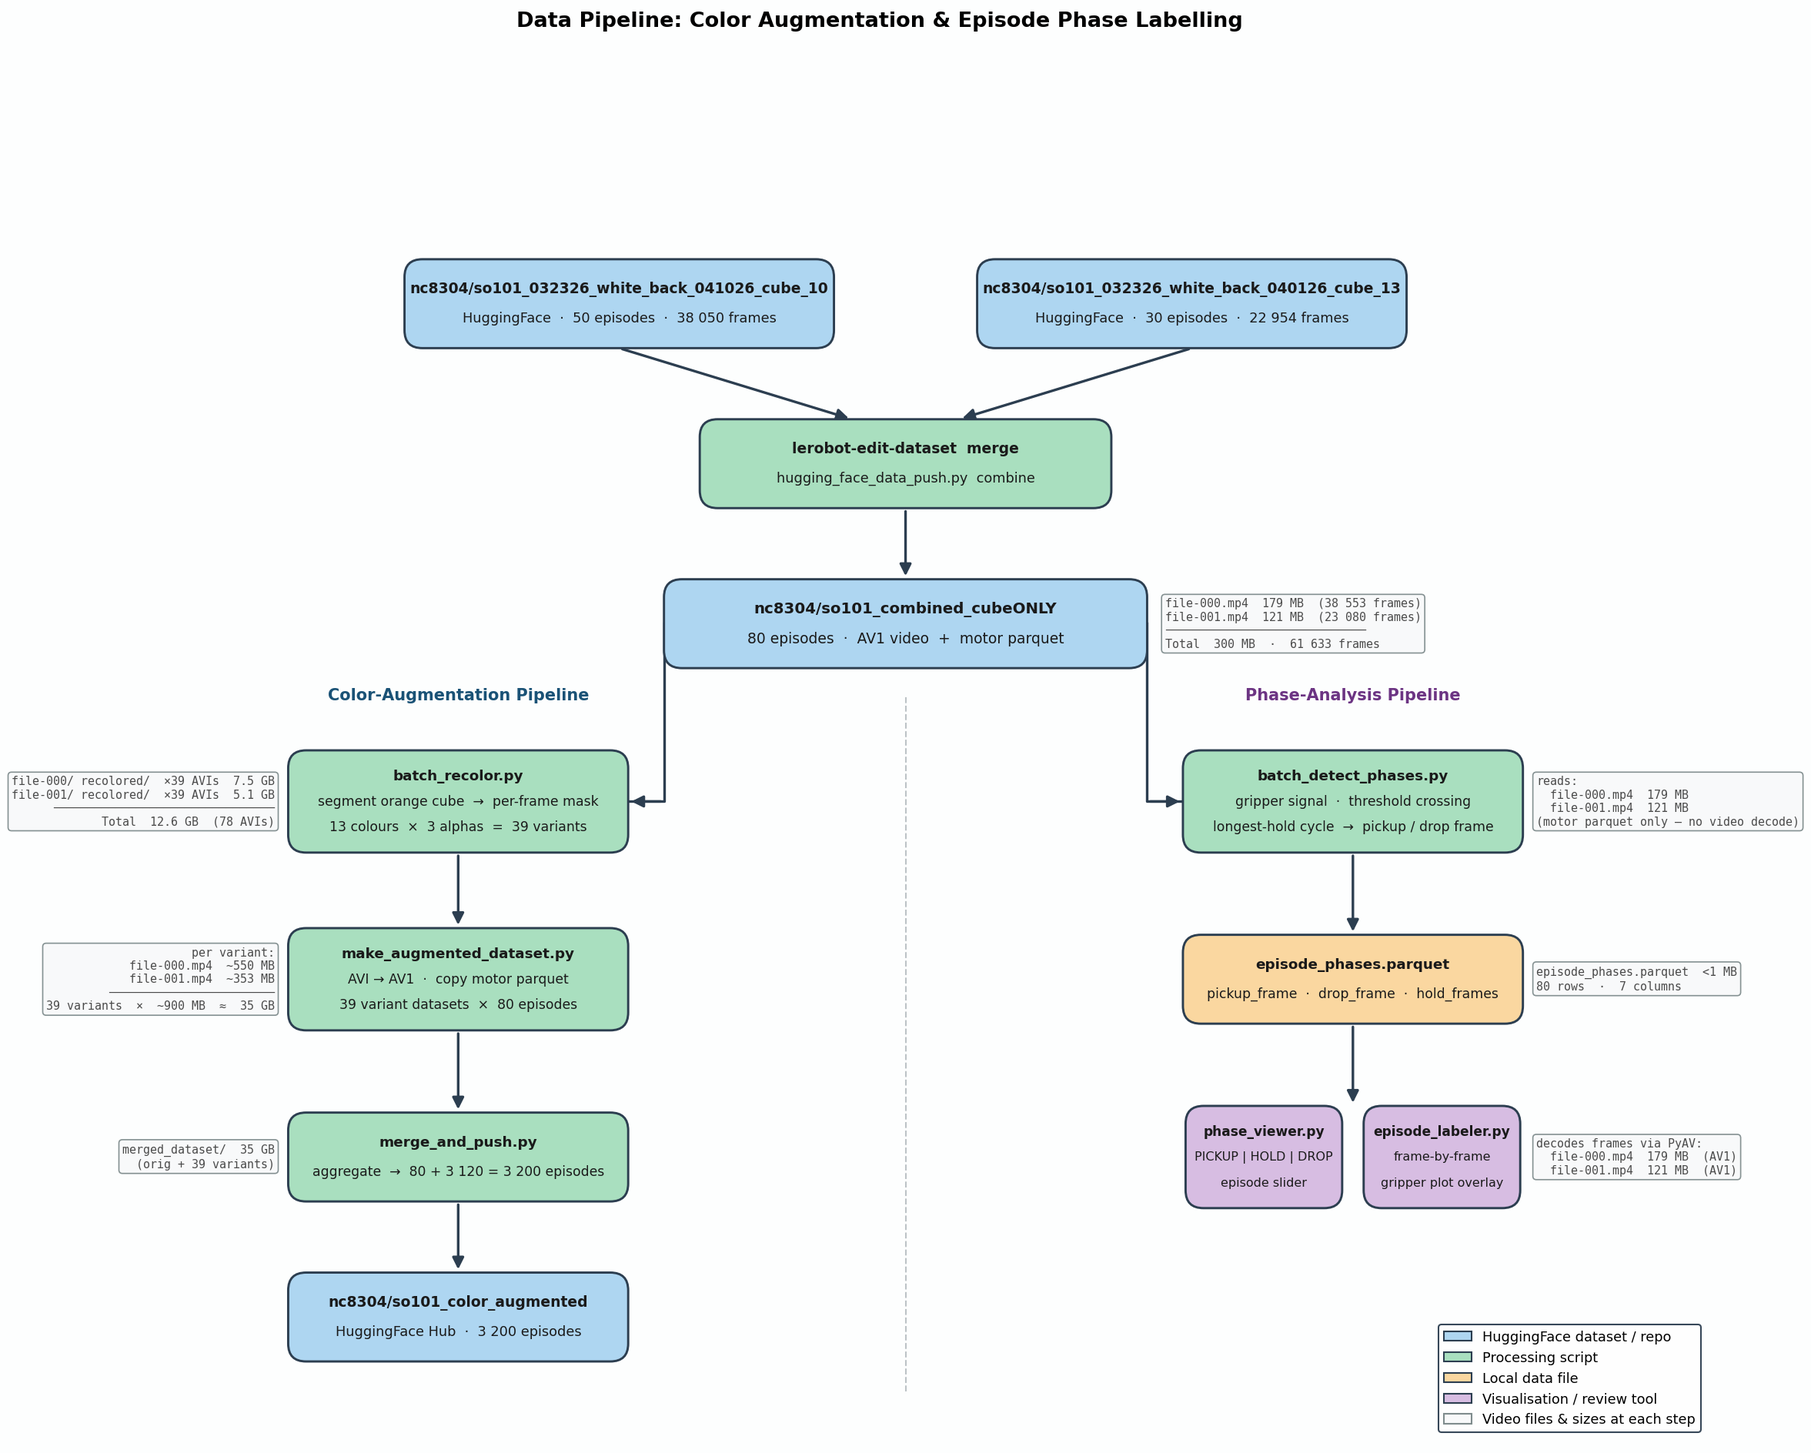
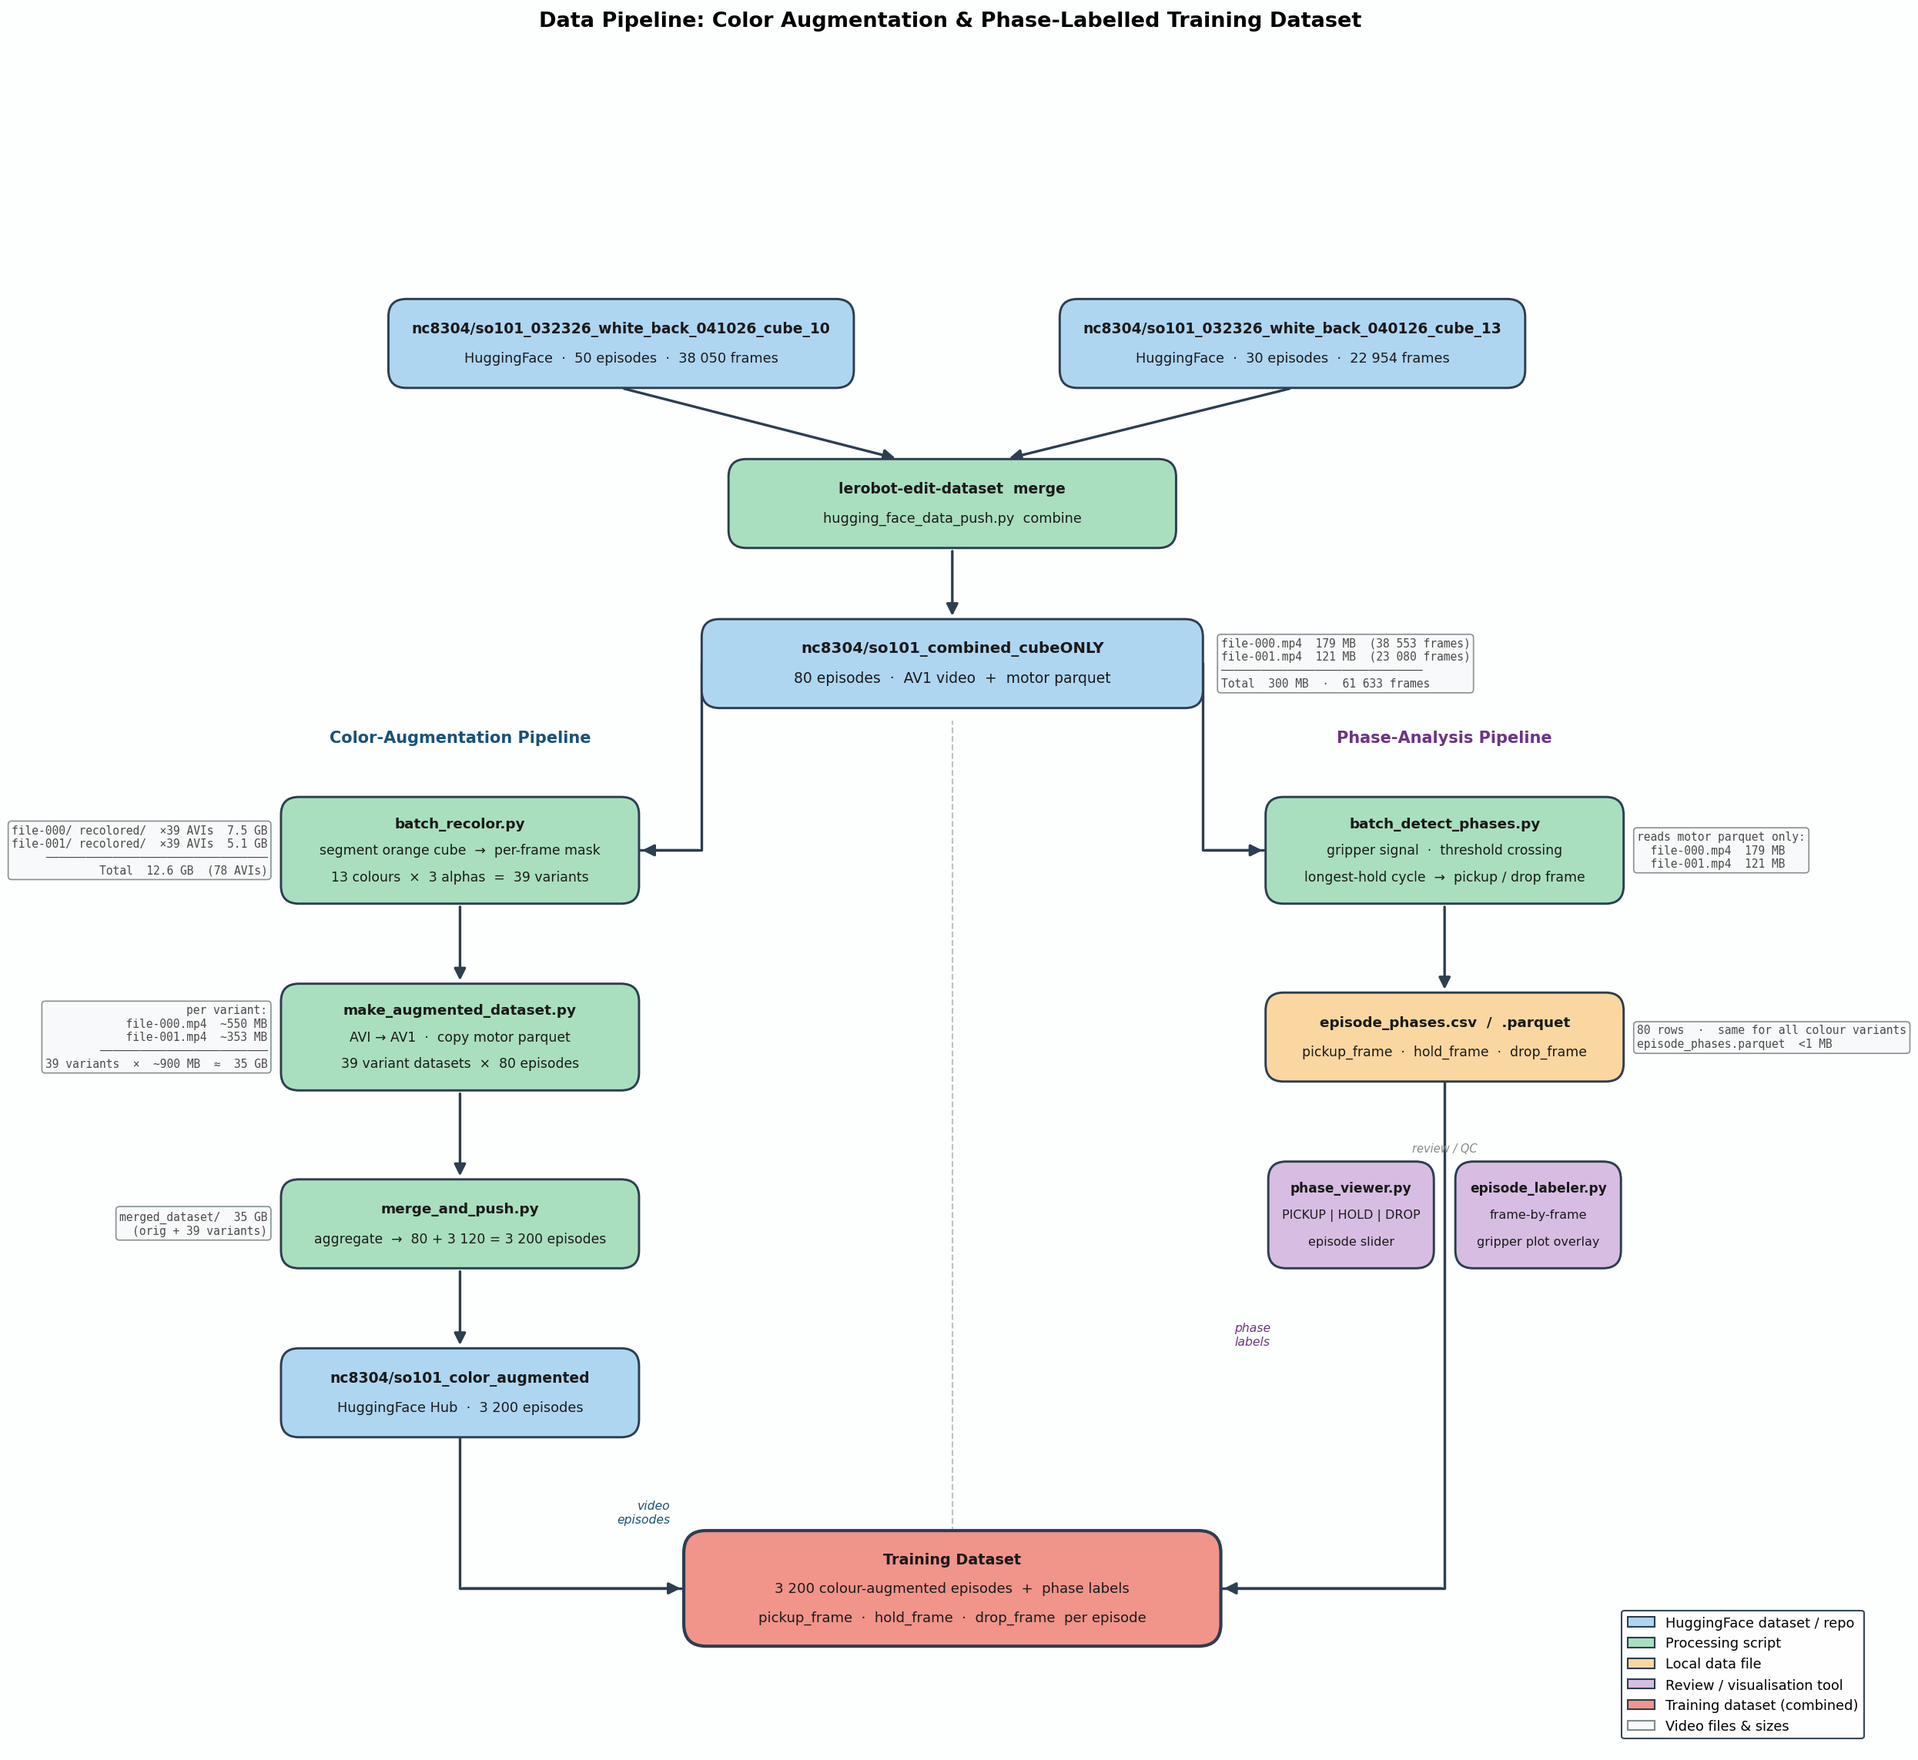
Update workflow figure to show training dataset convergence
- Both pipelines now converge into a Training Dataset node
- Color-augmented episodes + episode_phases labels feed into training
- Review tools shown as side branch off episode_phases

diff --git a/make_workflow_figure.py b/make_workflow_figure.py
@@ -1,6 +1,6 @@
 """
 Generate a workflow diagram for the data augmentation + phase analysis pipeline.
-Annotates each step with the video files and sizes produced.
+Shows how color-augmented dataset + episode_phases CSV converge for training.
 
 Output: outputs/workflow_figure.pdf  (and .png)
 """
@@ -22,12 +22,13 @@ C_HF     = "#AED6F1"   # HuggingFace datasets
 C_PROC   = "#A9DFBF"   # processing scripts
 C_FILE   = "#FAD7A0"   # local data / parquet
 C_VIZ    = "#D7BDE2"   # visualisation tools
+C_TRAIN  = "#F1948A"   # training node
 C_EDGE   = "#2C3E50"
-C_TAG    = "#F8F9FA"   # file-size tag background
-C_TAG_E  = "#7F8C8D"   # file-size tag border
+C_TAG    = "#F8F9FA"
+C_TAG_E  = "#7F8C8D"
 C_BG     = "#FDFEFE"
 
-FIG_W, FIG_H = 18, 14
+FIG_W, FIG_H = 20, 17
 
 
 # ── helpers ────────────────────────────────────────────────────────────────────
@@ -51,52 +52,50 @@ def box(ax, cx, cy, w, h, lines, fc,
                 color="#1A1A1A", zorder=4)
 
 
-def arr(ax, x0, y0, x1, y1, lw=1.6):
+def arr(ax, x0, y0, x1, y1, lw=1.6, color=C_EDGE):
     ax.annotate("", xy=(x1, y1), xytext=(x0, y0),
-                arrowprops=dict(arrowstyle="-|>", color=C_EDGE,
+                arrowprops=dict(arrowstyle="-|>", color=color,
                                 lw=lw, mutation_scale=15,
                                 connectionstyle="arc3,rad=0.0"),
                 zorder=2)
 
 
-def elbow(ax, x0, y0, x1, y1, lw=1.6):
-    """Vertical then horizontal elbow arrow."""
-    ax.plot([x0, x0, x1], [y0, y1, y1], color=C_EDGE, lw=lw, zorder=2)
+def elbow(ax, x0, y0, x1, y1, lw=1.6, color=C_EDGE):
+    """Go vertically from (x0,y0) to y1, then horizontally to (x1,y1)."""
+    ax.plot([x0, x0, x1], [y0, y1, y1], color=color, lw=lw, zorder=2)
     ax.annotate("", xy=(x1, y1), xytext=(x0, y1),
-                arrowprops=dict(arrowstyle="-|>", color=C_EDGE,
+                arrowprops=dict(arrowstyle="-|>", color=color,
                                 lw=lw, mutation_scale=15),
                 zorder=2)
 
 
 def file_tag(ax, x, y, lines, align="left"):
-    """Small file-size annotation tag."""
     ha = "left" if align == "left" else "right"
     txt = "\n".join(lines)
-    ax.text(x, y, txt,
-            ha=ha, va="center",
-            fontsize=7.2, color="#4A4A4A",
-            fontfamily="monospace",
+    ax.text(x, y, txt, ha=ha, va="center",
+            fontsize=7.0, color="#4A4A4A", fontfamily="monospace",
             bbox=dict(boxstyle="round,pad=0.3",
                       fc=C_TAG, ec=C_TAG_E, lw=0.8, alpha=0.95),
             zorder=5)
 
 
 # ── layout ─────────────────────────────────────────────────────────────────────
-Y1  = 12.8   # source datasets
-Y2  = 11.0   # combine step
-Y3  =  9.2   # combined dataset
-Y4  =  7.2   # branch step 1
-Y5  =  5.2   # branch step 2
-Y6  =  3.2   # branch step 3
-Y7  =  1.4   # final HF output (aug)
+Y1  = 15.8   # source datasets
+Y2  = 14.0   # combine step
+Y3  = 12.2   # combined dataset
+Y4  = 10.1   # branch step 1
+Y5  =  8.0   # branch step 2
+Y6  =  5.9   # aug step 3 (merge_and_push)
+Y7  =  4.0   # aug final (HF repo)
+Y8  =  1.8   # TRAINING (centred)
 
-X_L  =  4.0   # augmentation column
-X_R  = 14.0   # phase-analysis column
-X_C  =  9.0   # centre
+X_L  =  4.2   # augmentation column
+X_R  = 15.2   # phase-analysis column
+X_C  =  9.7   # centre
 
 BH   = 1.0
-BW   = 3.8
-SBH  = 1.15
+BW   = 4.0
+SBH  = 1.2
 
 
 # ── figure ────────────────────────────────────────────────────────────────────
@@ -109,14 +108,14 @@ fig.patch.set_facecolor(C_BG)
 # ═══════════════════════════════════════════════════════════════════════════════
 # ROW 1 — two source HF datasets
 # ═══════════════════════════════════════════════════════════════════════════════
-SX1, SX2 = 5.8, 12.2
+SX1, SX2 = 6.0, 13.5
 
-box(ax, SX1, Y1, 4.8, BH,
+box(ax, SX1, Y1, 5.2, BH,
     ["nc8304/so101_032326_white_back_041026_cube_10",
      "HuggingFace  ·  50 episodes  ·  38 050 frames"],
     C_HF, fontsize=9)
 
-box(ax, SX2, Y1, 4.8, BH,
+box(ax, SX2, Y1, 5.2, BH,
     ["nc8304/so101_032326_white_back_040126_cube_13",
      "HuggingFace  ·  30 episodes  ·  22 954 frames"],
     C_HF, fontsize=9)
@@ -127,43 +126,40 @@ box(ax, SX2, Y1, 4.8, BH,
 arr(ax, SX1, Y1 - BH/2,  X_C - 0.6, Y2 + BH/2)
 arr(ax, SX2, Y1 - BH/2,  X_C + 0.6, Y2 + BH/2)
 
-box(ax, X_C, Y2, 4.6, BH,
+box(ax, X_C, Y2, 5.0, BH,
     ["lerobot-edit-dataset  merge",
      "hugging_face_data_push.py  combine"],
     C_PROC, fontsize=9)
 
 # ═══════════════════════════════════════════════════════════════════════════════
-# ROW 3 — combined dataset  +  file-size tag
+# ROW 3 — combined dataset
 # ═══════════════════════════════════════════════════════════════════════════════
 arr(ax, X_C, Y2 - BH/2,  X_C, Y3 + BH/2)
 
-box(ax, X_C, Y3, 5.4, BH,
+box(ax, X_C, Y3, 5.6, BH,
     ["nc8304/so101_combined_cubeONLY",
      "80 episodes  ·  AV1 video  +  motor parquet"],
     C_HF, fontsize=9.5)
 
-# file tag — right of combined box
-file_tag(ax, X_C + 5.4/2 + 0.2, Y3,
+file_tag(ax, X_C + 5.6/2 + 0.2, Y3,
          ["file-000.mp4  179 MB  (38 553 frames)",
           "file-001.mp4  121 MB  (23 080 frames)",
-          "─────────────────────────────",
+          "──────────────────────────────",
           "Total  300 MB  ·  61 633 frames"],
          align="left")
 
-# ─── branch labels + divider ──────────────────────────────────────────────────
-ax.text(X_L, Y3 - BH/2 - 0.22, "Color-Augmentation Pipeline",
+# branch labels + divider
+ax.text(X_L, Y3 - BH/2 - 0.25, "Color-Augmentation Pipeline",
         ha="center", va="top", fontsize=10, fontweight="bold", color="#1A5276")
-ax.text(X_R, Y3 - BH/2 - 0.22, "Phase-Analysis Pipeline",
+ax.text(X_R, Y3 - BH/2 - 0.25, "Phase-Analysis Pipeline",
         ha="center", va="top", fontsize=10, fontweight="bold", color="#6C3483")
-ax.axvline(X_C, ymin=0.04, ymax=0.60,
+ax.axvline(X_C, ymin=0.07, ymax=0.68,
            color="#BDC3C7", lw=1.0, linestyle="--", zorder=1)
 
 # ═══════════════════════════════════════════════════════════════════════════════
 # AUGMENTATION BRANCH  (left)
 # ═══════════════════════════════════════════════════════════════════════════════
-
-# elbow: combined left edge → batch_recolor
-elbow(ax, X_C - 5.4/2, Y3,  X_L + BW/2, Y4)
+elbow(ax, X_C - 5.6/2, Y3,  X_L + BW/2, Y4)
 
 box(ax, X_L, Y4, BW, SBH,
     ["batch_recolor.py",
@@ -171,11 +167,10 @@ box(ax, X_L, Y4, BW, SBH,
      "13 colours  ×  3 alphas  =  39 variants"],
     C_PROC, fontsize=8.8)
 
-# file tag — left of aug column
 file_tag(ax, X_L - BW/2 - 0.15, Y4,
          ["file-000/ recolored/  ×39 AVIs  7.5 GB",
           "file-001/ recolored/  ×39 AVIs  5.1 GB",
-          "────────────────────────────────",
+          "─────────────────────────────────",
           "Total  12.6 GB  (78 AVIs)"],
          align="right")
 
@@ -191,7 +186,7 @@ file_tag(ax, X_L - BW/2 - 0.15, Y5,
          ["per variant:",
           "  file-000.mp4  ~550 MB",
           "  file-001.mp4  ~353 MB",
-          "────────────────────────",
+          "─────────────────────────",
           "39 variants  ×  ~900 MB  ≈  35 GB"],
          align="right")
 
@@ -217,8 +212,7 @@ box(ax, X_L, Y7, BW, BH,
 # ═══════════════════════════════════════════════════════════════════════════════
 # PHASE-ANALYSIS BRANCH  (right)
 # ═══════════════════════════════════════════════════════════════════════════════
-
-elbow(ax, X_C + 5.4/2, Y3,  X_R - BW/2, Y4)
+elbow(ax, X_C + 5.6/2, Y3,  X_R - BW/2, Y4)
 
 box(ax, X_R, Y4, BW, SBH,
     ["batch_detect_phases.py",
@@ -226,69 +220,95 @@ box(ax, X_R, Y4, BW, SBH,
      "longest-hold cycle  →  pickup / drop frame"],
     C_PROC, fontsize=8.8)
 
-# reads the same combined-dataset videos
 file_tag(ax, X_R + BW/2 + 0.15, Y4,
-         ["reads:",
+         ["reads motor parquet only:",
           "  file-000.mp4  179 MB",
-          "  file-001.mp4  121 MB",
-          "(motor parquet only — no video decode)"],
+          "  file-001.mp4  121 MB"],
          align="left")
 
 arr(ax, X_R, Y4 - SBH/2,  X_R, Y5 + BH/2)
 
 box(ax, X_R, Y5, BW, BH,
-    ["episode_phases.parquet",
-     "pickup_frame  ·  drop_frame  ·  hold_frames"],
+    ["episode_phases.csv  /  .parquet",
+     "pickup_frame  ·  hold_frame  ·  drop_frame"],
     C_FILE, fontsize=8.8)
 
 file_tag(ax, X_R + BW/2 + 0.15, Y5,
-         ["episode_phases.parquet  <1 MB",
-          "80 rows  ·  7 columns"],
+         ["80 rows  ·  same for all colour variants",
+          "episode_phases.parquet  <1 MB"],
          align="left")
 
-arr(ax, X_R, Y5 - BH/2,  X_R, Y6 + SBH/2)
+# ── viewers: side branch off episode_phases ───────────────────────────────────
+VW = 1.85
+VY = Y5 - 2.0   # place viewers below the parquet box
+# connector line from parquet down to viewers row
+ax.plot([X_R, X_R], [Y5 - BH/2, VY + SBH/2], color=C_EDGE, lw=1.2,
+        linestyle=":", zorder=2)
+ax.text(X_R, VY + SBH/2 + 0.08, "review / QC", ha="center", va="bottom",
+        fontsize=7, color="#888888", style="italic")
 
-# two viewer boxes side by side
-VW = 1.75
-box(ax, X_R - VW/2 - 0.12, Y6, VW, SBH,
+box(ax, X_R - VW/2 - 0.12, VY, VW, SBH,
     ["phase_viewer.py",
      "PICKUP | HOLD | DROP",
      "episode slider"],
     C_VIZ, fontsize=8.2)
 
-box(ax, X_R + VW/2 + 0.12, Y6, VW, SBH,
+box(ax, X_R + VW/2 + 0.12, VY, VW, SBH,
     ["episode_labeler.py",
      "frame-by-frame",
      "gripper plot overlay"],
     C_VIZ, fontsize=8.2)
 
-file_tag(ax, X_R + BW/2 + 0.15, Y6,
-         ["decodes frames via PyAV:",
-          "  file-000.mp4  179 MB  (AV1)",
-          "  file-001.mp4  121 MB  (AV1)"],
-         align="left")
+# ═══════════════════════════════════════════════════════════════════════════════
+# TRAINING NODE  (centred at bottom)
+# ═══════════════════════════════════════════════════════════════════════════════
+TW, TH = 6.0, 1.3
+
+box(ax, X_C, Y8, TW, TH,
+    ["Training Dataset",
+     "3 200 colour-augmented episodes  +  phase labels",
+     "pickup_frame  ·  hold_frame  ·  drop_frame  per episode"],
+    C_TRAIN, fontsize=9.2, radius=0.25, lw=2.0)
+
+# arrow: so101_color_augmented → training
+elbow(ax, X_L, Y7 - BH/2,  X_C - TW/2, Y8)
+
+# arrow: episode_phases → training
+elbow(ax, X_R, Y5 - BH/2,  X_C + TW/2, Y8)
+
+# label on the converging arrows
+ax.text(X_C - TW/2 - 0.15, (Y7 - BH/2 + Y8) / 2,
+        "video\nepisodes", ha="right", va="center",
+        fontsize=7.5, color="#1A5276", style="italic")
+ax.text(X_C + TW/2 + 0.15, (Y5 - BH/2 + Y8) / 2,
+        "phase\nlabels", ha="left", va="center",
+        fontsize=7.5, color="#6C3483", style="italic")
 
 # ═══════════════════════════════════════════════════════════════════════════════
 # LEGEND
 # ═══════════════════════════════════════════════════════════════════════════════
 legend_handles = [
-    mpatches.Patch(facecolor=C_HF,   edgecolor=C_EDGE, label="HuggingFace dataset / repo"),
-    mpatches.Patch(facecolor=C_PROC, edgecolor=C_EDGE, label="Processing script"),
-    mpatches.Patch(facecolor=C_FILE, edgecolor=C_EDGE, label="Local data file"),
-    mpatches.Patch(facecolor=C_VIZ,  edgecolor=C_EDGE, label="Visualisation / review tool"),
-    mpatches.Patch(facecolor=C_TAG,  edgecolor=C_TAG_E, label="Video files & sizes at each step"),
+    mpatches.Patch(facecolor=C_HF,    edgecolor=C_EDGE, label="HuggingFace dataset / repo"),
+    mpatches.Patch(facecolor=C_PROC,  edgecolor=C_EDGE, label="Processing script"),
+    mpatches.Patch(facecolor=C_FILE,  edgecolor=C_EDGE, label="Local data file"),
+    mpatches.Patch(facecolor=C_VIZ,   edgecolor=C_EDGE, label="Review / visualisation tool"),
+    mpatches.Patch(facecolor=C_TRAIN, edgecolor=C_EDGE, label="Training dataset (combined)"),
+    mpatches.Patch(facecolor=C_TAG,   edgecolor=C_TAG_E, label="Video files & sizes"),
 ]
 ax.legend(handles=legend_handles, loc="lower right",
           fontsize=8.5, framealpha=0.95, edgecolor=C_EDGE,
           bbox_to_anchor=(0.998, 0.002))
 
-fig.suptitle("Data Pipeline: Color Augmentation & Episode Phase Labelling",
+fig.suptitle("Data Pipeline: Color Augmentation & Phase-Labelled Training Dataset",
              fontsize=13, fontweight="bold", y=0.995)
 
 out_png = OUT_DIR / "workflow_figure.png"
 out_pdf = OUT_DIR / "workflow_figure.pdf"
 fig.savefig(out_png, dpi=150, bbox_inches="tight", facecolor=C_BG)
-fig.savefig(out_pdf, bbox_inches="tight", facecolor=C_BG)
 print(f"Saved: {out_png}")
-print(f"Saved: {out_pdf}")
+try:
+    fig.savefig(out_pdf, bbox_inches="tight", facecolor=C_BG)
+    print(f"Saved: {out_pdf}")
+except PermissionError:
+    print(f"Skipped PDF (file open in viewer): {out_pdf}")
 os.startfile(str(out_png))
